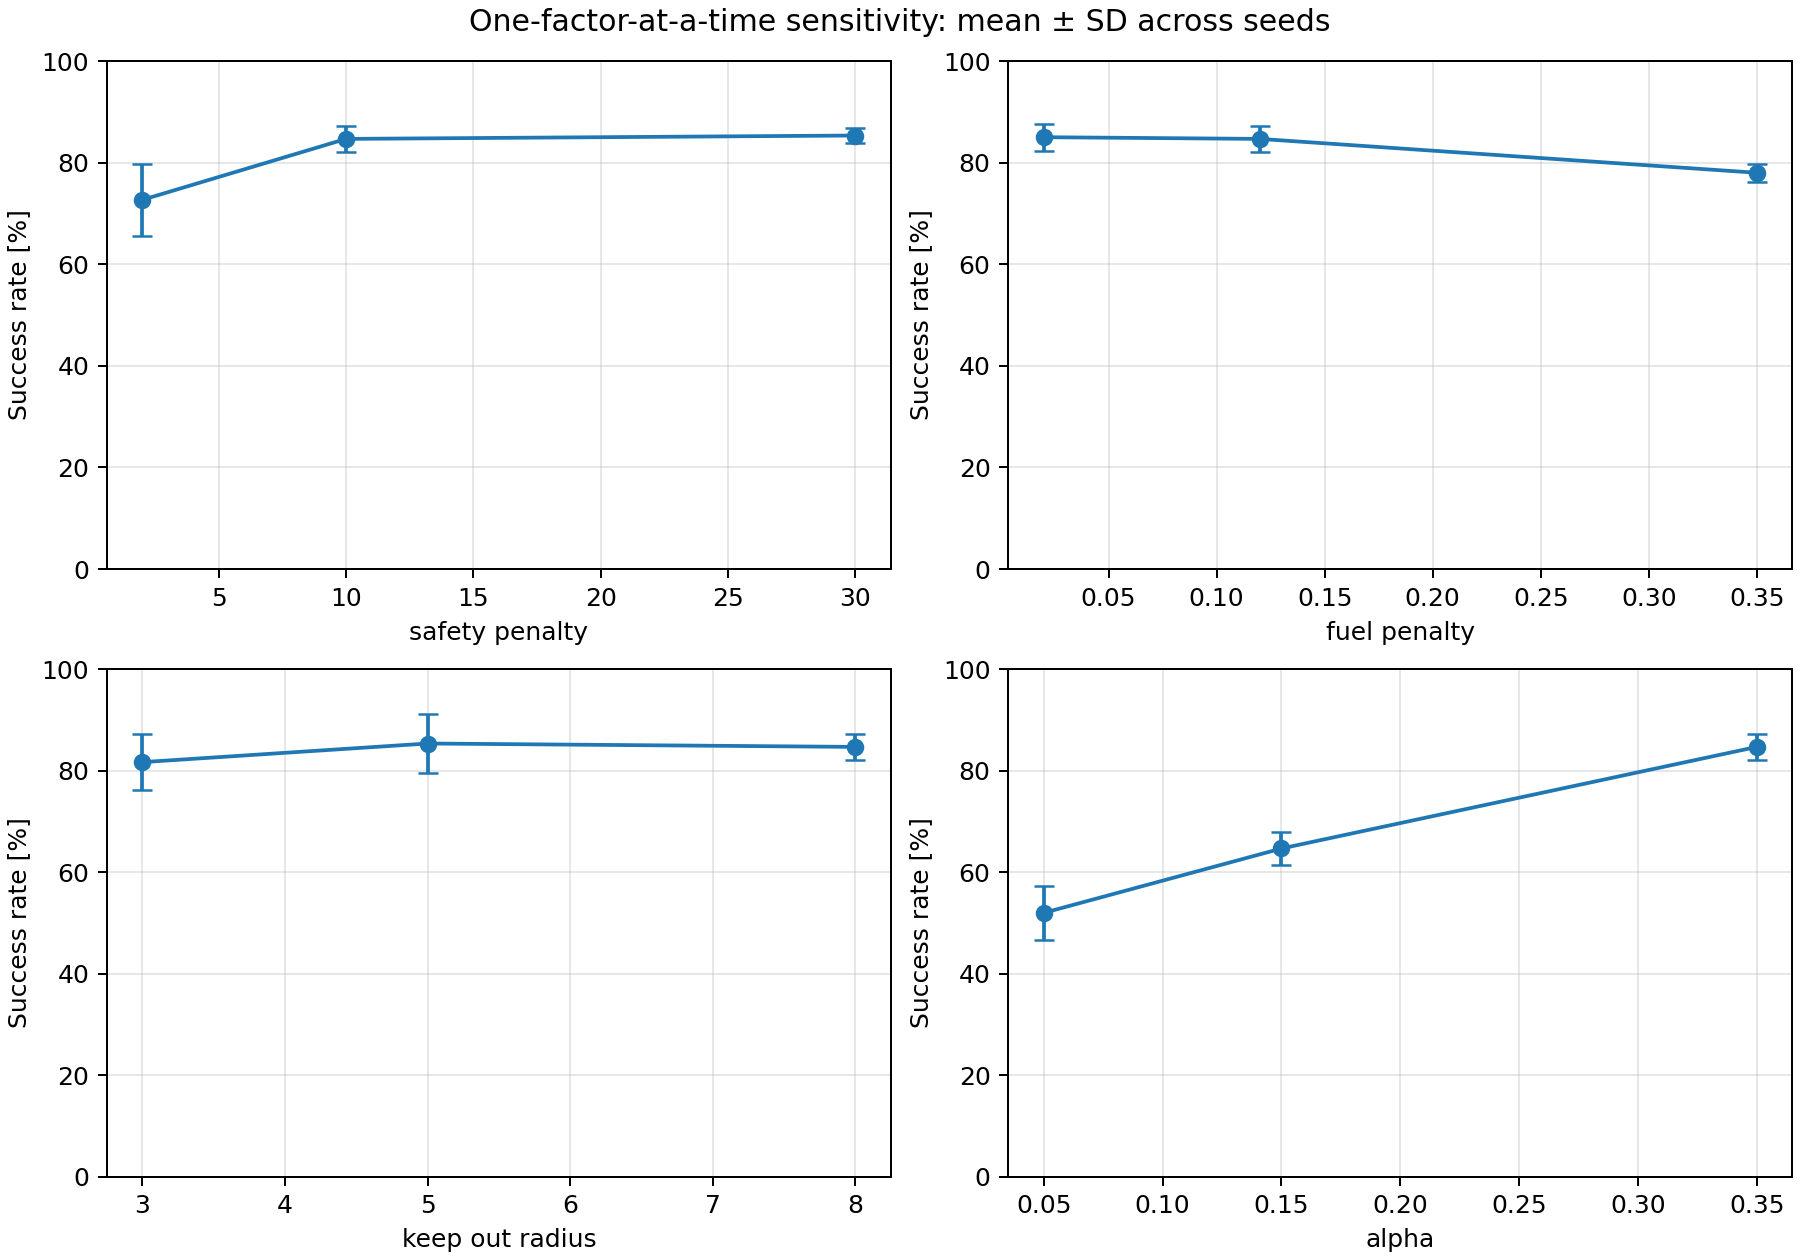
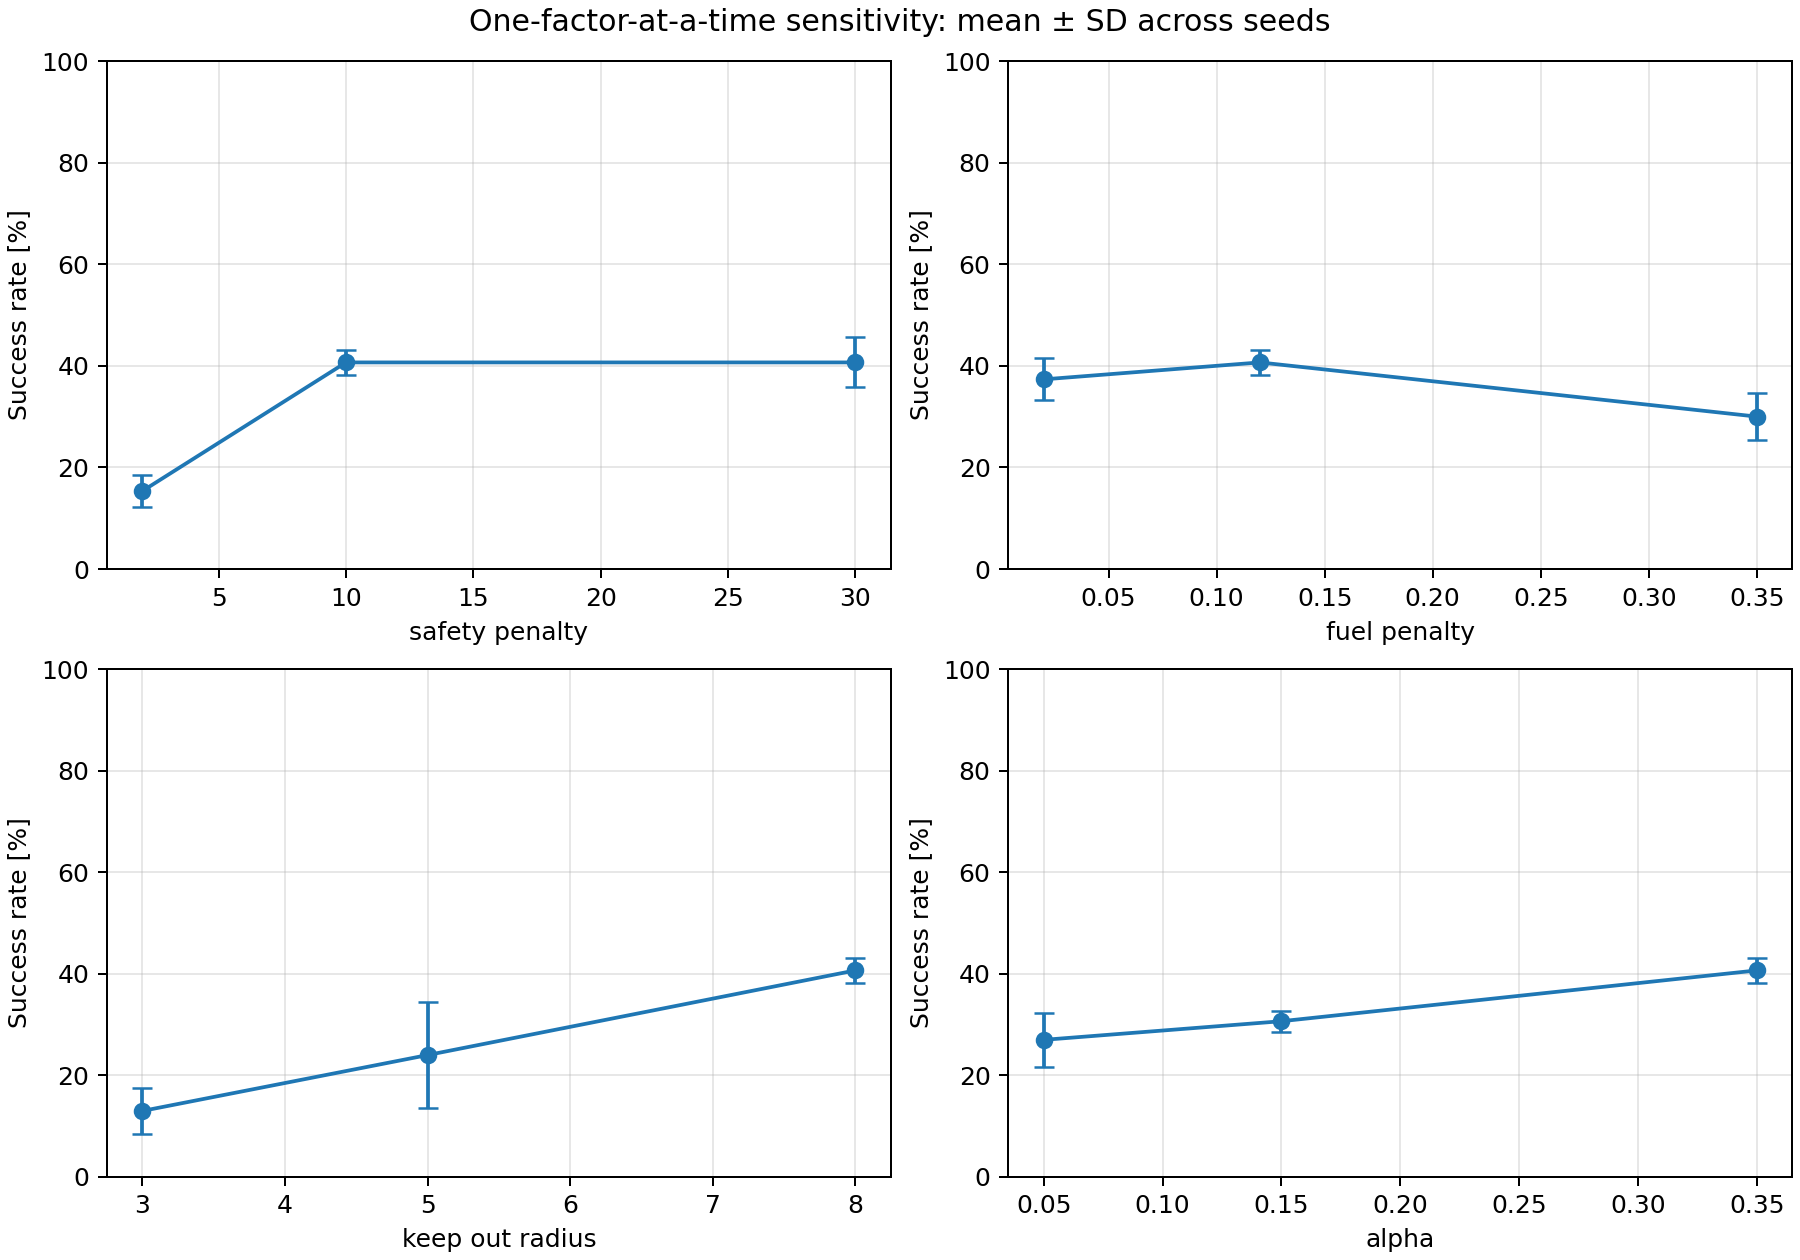
Update README and sensitivity results

diff --git a/README.md b/README.md
@@ -1,42 +1,36 @@
 # Reinforcement Learning for Fuel-Efficient and Collision-Aware Spacecraft Rendezvous
 
-A complete AE4350-style Python repository for two reinforcement-learning controllers in a simplified planar spacecraft-rendezvous problem:
-
+A complete Python repository for two reinforcement-learning controllers in a simplified planar spacecraft-rendezvous problem:
 - a tabular, on-policy SARSA controller with discrete thrust commands;
 - a continuous-thrust actor-critic controller with a stochastic Gaussian policy and a learned value critic.
 
-## Why this matches the lecture
 
 The lecture distinguishes discrete RL from continuous RL with function approximators. This project now includes both routes, which gives you a stronger comparison section.
 
 The SARSA part follows the discrete route:
-
 - Agent state: discretised relative position and velocity `[x, y, vx, vy]`.
 - Environment: simplified planar Clohessy-Wiltshire/Hill relative dynamics.
 - Actions: coast, `+x`, `-x`, `+y`, `-y` thrust.
 - Policy: epsilon-greedy during learning; greedy during evaluation.
 - Stored information: an action-value table `Q(s,a)`.
 - Learning: online TD bootstrapping with the slide-29 SARSA update
-
   `Q(s,a) <- Q(s,a) + alpha [r + gamma Q(s',a') - Q(s,a)]`.
 
-The assignment slide asks for a system description, RL design, learning effect, results, and sensitivity to learning parameters. The scripts generate each of those experimental ingredients. No black-box RL framework is used, so every step is visible and explainable.
 
 The actor-critic part follows the continuous-control route:
-
 - Agent state: continuous relative position and velocity `[x, y, vx, vy]`.
 - Environment: the same simplified planar Clohessy-Wiltshire/Hill dynamics.
 - Actions: continuous two-axis thrust acceleration `[u_x, u_y]`, clipped to the maximum thruster acceleration.
 - Actor: a stochastic Gaussian policy over continuous thrust commands, squashed through `tanh` so physical thrust limits are always respected.
 - Critic: a linear state-value approximation `V(s)` trained by the TD error.
 - Learning signal: the same TD error updates both critic and actor, which is the core actor-critic idea.
+- Exploration: Gaussian action noise during training, decayed over time.
+- Model selection: validation-based early stopping is used to avoid actor-critic policy collapse. The best validation actor/critic checkpoint is restored for final evaluation.
+- Initial policy: by default, the actor starts from a near-random policy (`warm_start_scale = 0.0`) so the reported improvement is due to learning rather than a hand-designed guidance law.
 
-This is still intentionally transparent rather than a black-box deep-RL implementation. It is more advanced than SARSA because it removes the discrete action table and uses function approximation, while remaining explainable enough for an AE4350 report.
+It is more advanced than SARSA because it removes the discrete action table and uses function approximation, while remaining explainable enough for the report. 
 
 ## Setup in VS Code
-
-Open this folder in VS Code, then run in its terminal:
-
 ```bash
 python3 -m venv .venv
 source .venv/bin/activate       # Windows: .venv\Scripts\activate
@@ -46,38 +40,30 @@ pytest
 ```
 
 ## Run
-
-First run the fast check:
-
-```bash
-python -m rendezvous_rl.experiment --quick
-python -m rendezvous_rl.sensitivity --quick
-```
-
-Then generate report-quality results:
-
 ```bash
 python -m rendezvous_rl.experiment
 python -m rendezvous_rl.sensitivity
 python -m rendezvous_rl.actor_critic_experiment
 python -m rendezvous_rl.actor_critic_sensitivity
 ```
-
 The main experiment trains three independent seeds, evaluates each policy on the same 250 unseen initial conditions, and reports mean and standard deviation. The sensitivity experiment changes one parameter at a time and repeats every setting across independent seeds. It is intentionally slower.
+
+For actor-critic, `--episodes` is the maximum training budget. The run may stop earlier because validation-based early stopping is used. This prevents the actor from continuing to update after a good policy has been found, which can otherwise cause policy collapse in actor-critic methods. Actor-critic uses early stopping and checkpoint rollback, so 8000 episodes is a maximum budget, not a guaranteed run length.
 
 Useful overrides:
 
 ```bash
 python -m rendezvous_rl.experiment --episodes 6000 --seeds 7 17 27 37 47
 python -m rendezvous_rl.sensitivity --episodes 3000 --seeds 101 202 303 404 505
-python -m rendezvous_rl.actor_critic_experiment --episodes 8000 --seeds 7 17 27
-python -m rendezvous_rl.actor_critic_experiment --episodes 10000 --actor-alpha 0.012 --critic-alpha 0.050
+python -m rendezvous_rl.actor_critic_experiment --episodes 8000 --evaluation-episodes 250 --seeds 7 17 27
+python -m rendezvous_rl.actor_critic_sensitivity --episodes 1500 --evaluation-episodes 80 --seeds 101 202
+python -m rendezvous_rl.actor_critic_experiment --episodes 8000 --actor-alpha 0.001 --critic-alpha 0.02
 ```
+
 
 ## Generated evidence
 
 The `results/` directory will contain:
-
 - `learning_curves.png`: return, success rate, thrust use, and unsafe entries with uncertainty bands.
 - `example_trajectory.png`: an interpretable greedy rendezvous trajectory.
 - `evaluation_histograms.png`: final distance, speed, and fuel distributions.
@@ -85,33 +71,20 @@ The `results/` directory will contain:
 - `q_table_seed_*.npz`: learned action-value tables.
 - `sensitivity_raw.csv` and `sensitivity_success.png`: one-factor sensitivity results.
 
-The `results_actor_critic/` directory will contain the continuous-method equivalents:
 
-- `learning_curves.png`: return, success rate, normalised impulse, and exploration standard deviation.
+The `results_actor_critic/` directory will contain:
+- `learning_curves.png`: return, success rate, normalised impulse, and actor weight change.
 - `example_trajectory.png`: deterministic actor trajectory with thrust-direction arrows.
 - `evaluation_histograms.png`: final distance, speed, and normalised impulse distributions.
-- `evaluation_by_seed.csv` and `evaluation_aggregate.json`: repeated-run statistics.
-- `actor_critic_seed_*.npz`: learned actor and critic weights.
-- `actor_critic_sensitivity_raw.csv` and `actor_critic_sensitivity_success.png`: actor-critic sensitivity results.
+- `evaluation_by_seed.csv` and `evaluation_aggregate.json`: repeated-run actor-critic statistics.
+- `prior_evaluation_by_seed.csv`: performance of the initial actor before learning.
+- `actor_critic_seed_*.npz`: learned actor weights, critic weights, and initial actor weights.
+- `actor_critic_sensitivity_baseline.csv`: baseline sensitivity run.
+- `actor_critic_sensitivity_raw.csv`: all sensitivity rows.
+- `actor_critic_sensitivity_unique_runs.csv`: only retrained non-duplicate sensitivity configurations.
+- `actor_critic_sensitivity_success.png`: actor-critic sensitivity plot.
 
 ## Safety and reward definitions
-
 Docking succeeds only when distance and relative speed are both low. The keep-out zone is not simply forbidden, because the chaser must enter it to dock. Instead, entering or occupying it above `safe_entry_speed` is unsafe and penalised. High-speed contact inside `collision_radius` is a collision. Each non-coast command consumes one abstract fuel unit.
 
 The reward combines distance progress, relative-speed cost, time cost, thrust/fuel cost, unsafe-operation cost, and terminal success/collision/escape terms. Reward design strongly affects the learned policy, exactly as stressed in lecture slide 10.
-
-## Suggested report structure
-
-1. Research question and hypothesis.
-2. Simplified Hill-frame dynamics, assumptions, state, actions, and terminal conditions.
-3. State discretisation, Q-table, epsilon-greedy policy, SARSA pseudocode/equation.
-4. Continuous actor-critic extension: continuous action space, policy, value function, TD error, exploration standard deviation.
-5. Reward-function terms and physical interpretation.
-6. Experimental protocol: seeds, training episodes, unseen evaluation cases, metrics.
-7. Learning curves and uncertainty across seeds.
-8. Trajectory interpretation: braking, coasting, keep-out entry, docking speed.
-9. SARSA versus actor-critic comparison: success rate, final speed, fuel/impulse, safety violations, and smoothness of the trajectory.
-10. Sensitivity to `alpha`, actor/critic learning rates, exploration standard deviation, fuel penalty, safety penalty, and keep-out radius.
-11. Limitations: planar linearised dynamics, handcrafted features for the actor-critic method, no sensor noise, and no flight-readiness claim.
-
-Before settling on conclusions, inspect the actual plots and explain what the agent learned. Do not claim success merely because the script finished.